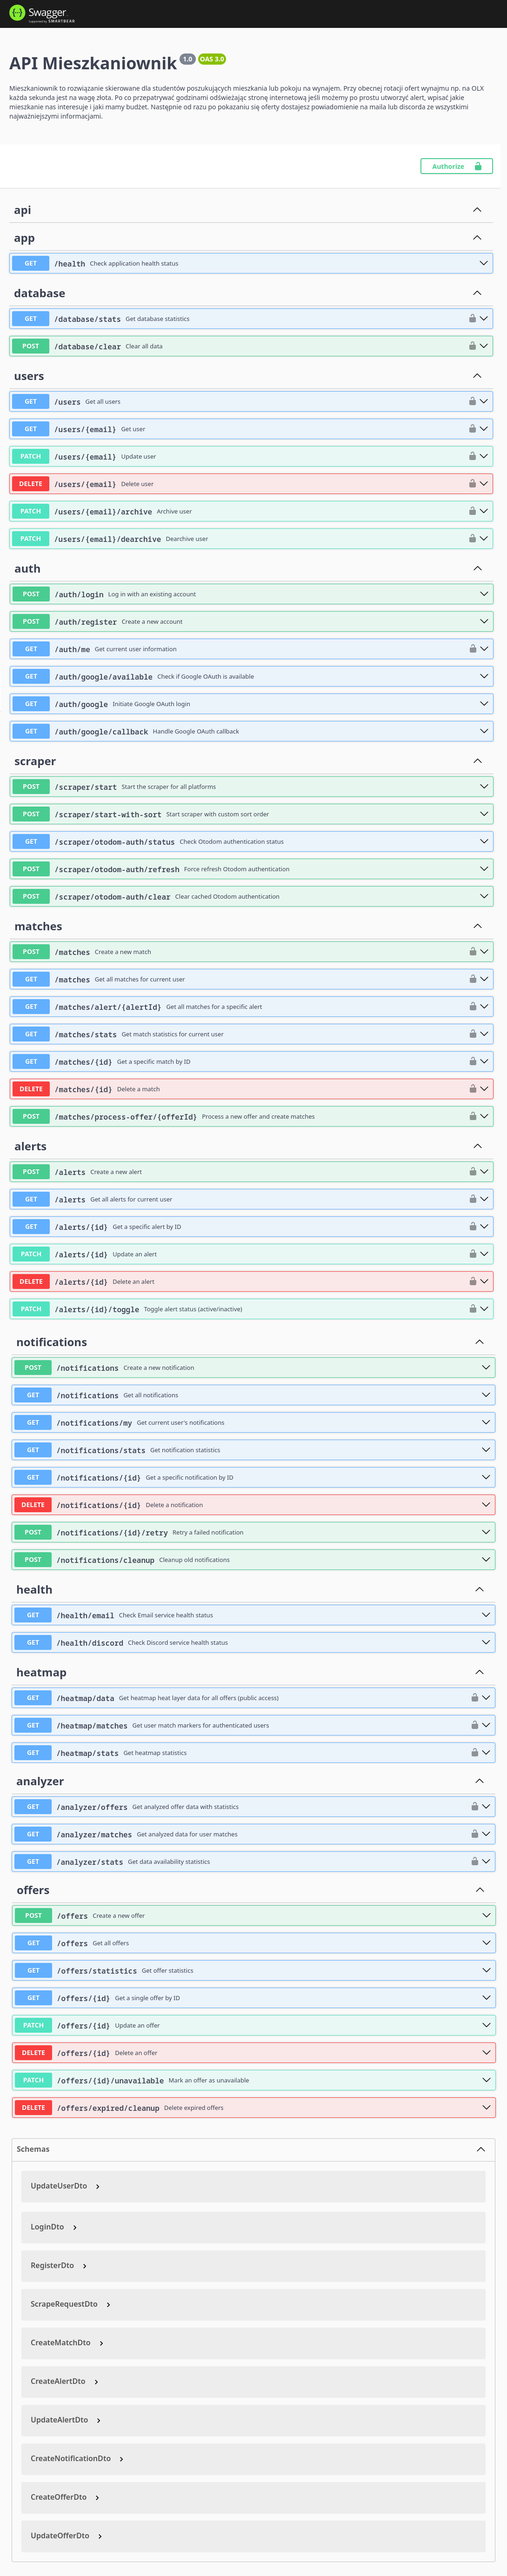
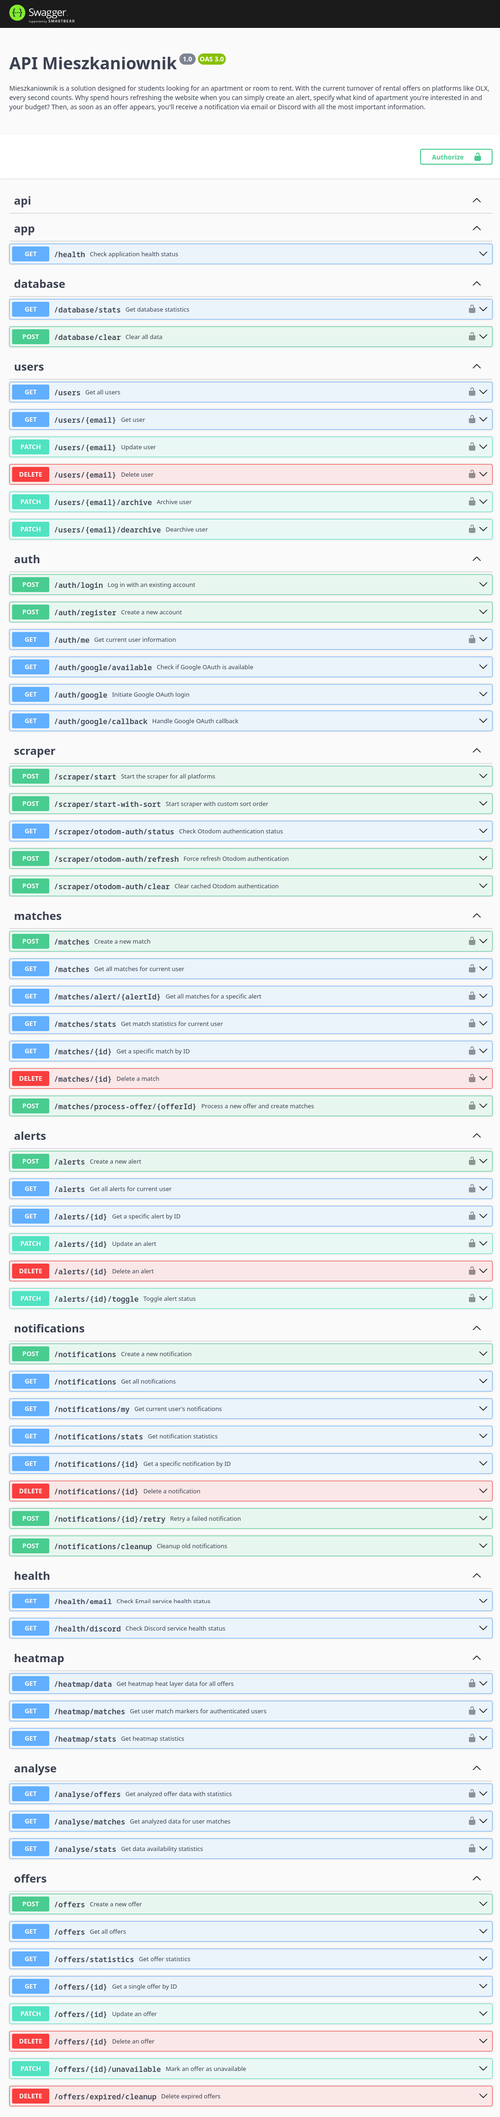
chore: update swagger docs

Changed region(s): [[0.0, 0.0, 0.9814, 0.9982], [0.3374, 0.967, 0.3987, 0.9982]]

diff --git a/src/main.ts b/src/main.ts
@@ -63,11 +63,7 @@ async function bootstrap() {
   const config = new DocumentBuilder()
     .setTitle("API Mieszkaniownik")
     .setDescription(
-      `Mieszkaniownik to rozwiązanie skierowane dla studentów poszukujących mieszkania lub pokoju na wynajem. 
-      Przy obecnej rotacji ofert wynajmu np. na OLX każda sekunda jest na wagę złota. 
-      Po co przepatrywać godzinami odświeżając stronę internetową jeśli możemy po prostu utworzyć alert, 
-      wpisać jakie mieszkanie nas interesuje i jaki mamy budżet. 
-      Następnie od razu po pokazaniu się oferty dostajesz powiadomienie na maila lub discorda ze wszystkimi najważniejszymi informacjami.`,
+      `Mieszkaniownik is a solution designed for students looking for an apartment or room to rent. With the current turnover of rental offers on platforms like OLX, every second counts. Why spend hours refreshing the website when you can simply create an alert, specify what kind of apartment you're interested in and your budget? Then, as soon as an offer appears, you'll receive a notification via email or Discord with all the most important information.`,
     )
     .setVersion("1.0")
     .addTag("api")

diff --git a/src/heatmap/heatmap.controller.ts b/src/heatmap/heatmap.controller.ts
@@ -34,7 +34,7 @@ export class HeatmapController {
   @Get("data")
   @Public()
   @ApiOperation({
-    summary: "Get heatmap heat layer data for all offers (public access)",
+    summary: "Get heatmap heat layer data for all offers",
   })
   @ApiResponse({
     status: 200,

diff --git a/src/alert/alert.controller.ts b/src/alert/alert.controller.ts
@@ -150,7 +150,7 @@ export class AlertController {
 
   @Patch(":id/toggle")
   @ApiOperation({
-    summary: "Toggle alert status (active/inactive)",
+    summary: "Toggle alert status",
   })
   @ApiResponse({
     status: 200,

diff --git a/README.md b/README.md
@@ -3,7 +3,7 @@
 </p>
 
 <p align="center">
-    <strong>Twój klucz do studenckiego mieszkania</strong>
+    <strong>Your key to student housing</strong>
 </p>
 
 <p align="center">
@@ -32,20 +32,20 @@
 
 [![Status](https://img.shields.io/badge/Status-Beta-orange)]() [![License](https://img.shields.io/badge/License-MIT-green)](LICENSE)
 
-## O Projekcie
+## About the Project
 
-**Mieszkaniownik** to rozwiązanie skierowane dla studentów poszukujących mieszkania lub pokoju na wynajem. Przy obecnej rotacji ofert wynajmu np. na OLX każda sekunda jest na wagę złota. Po co przepatrywać godzinami odświeżając stronę internetową, jeśli możemy po prostu utworzyć alert, wpisać jakie mieszkanie nas interesuje i jaki mamy budżet? Następnie od razu po pokazaniu się oferty dostajesz powiadomienie na maila lub Discorda z wszystkimi najważniejszymi informacjami.
+**Mieszkaniownik** is a solution designed for students looking for an apartment or room to rent. With the current turnover of rental offers on platforms like OLX, every second counts. Why spend hours refreshing the website when you can simply create an alert, specify what kind of apartment you're interested in and your budget? Then, as soon as an offer appears, you'll receive a notification via email or Discord with all the most important information.
 
-### Grupa Docelowa
+### Target Audience
 
-Studenci poszukujący pokoju lub mieszkania
+Students looking for a room or apartment
 
-### Wartość Dodana
+### Added Value
 
-- **Zaoszczędzony czas** - automatyczne monitorowanie ofert zamiast ręcznego odświeżania
-- **Szybsze znalezienie mieszkania** - natychmiastowe powiadomienia o nowych ofertach
-- **Więcej ofert do wyboru** - agregacja z wielu źródeł
-- **Redukcja stresu** - żadnego strachu i stresu związanego z poszukiwaniem mieszkania
+- **Time saved** - automatic offer monitoring instead of manual refreshing
+- **Faster apartment finding** - instant notifications about new offers
+- **More offers to choose from** - aggregation from multiple sources
+- **Stress reduction** - no fear or stress associated with apartment hunting
 
 ### API Documentation
 
